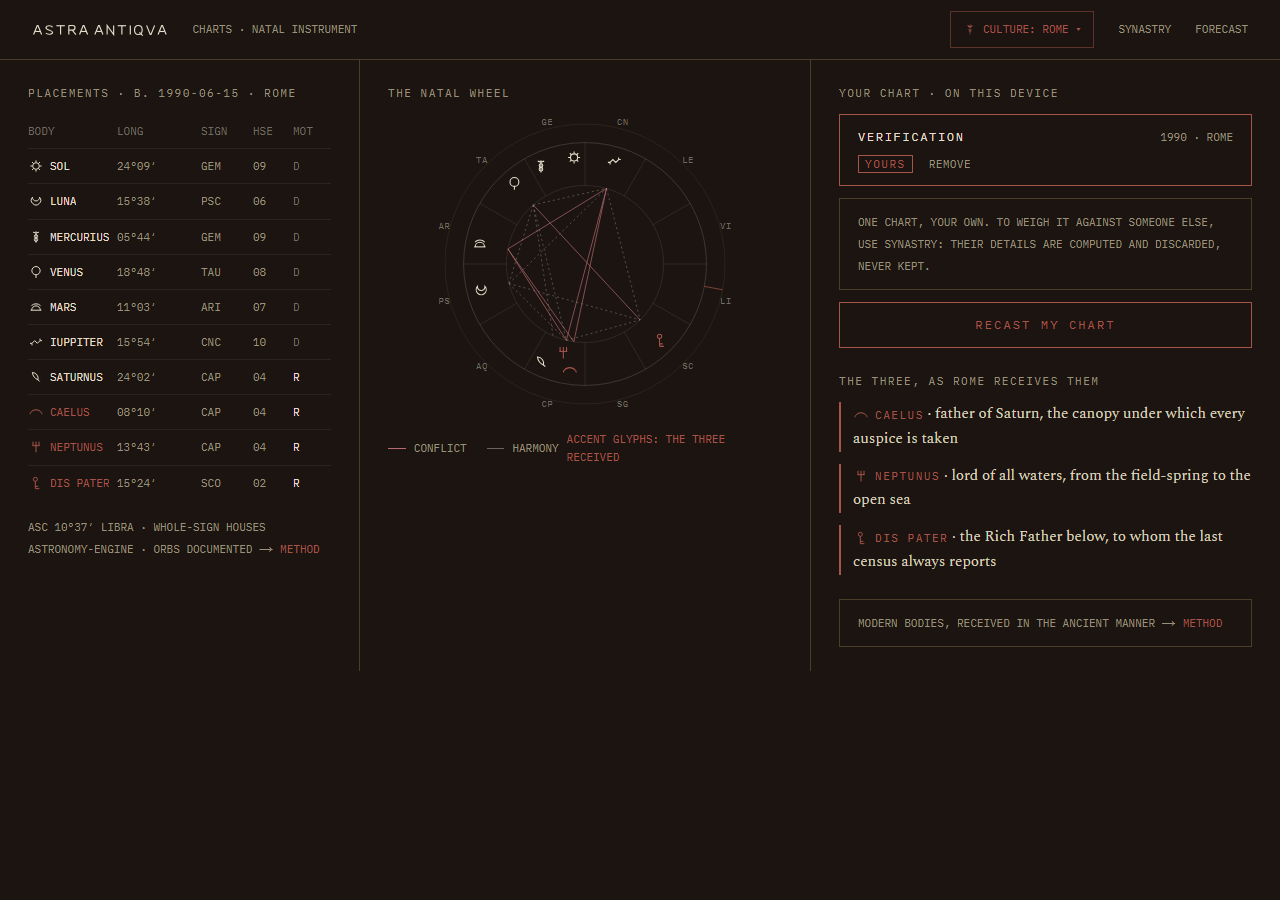
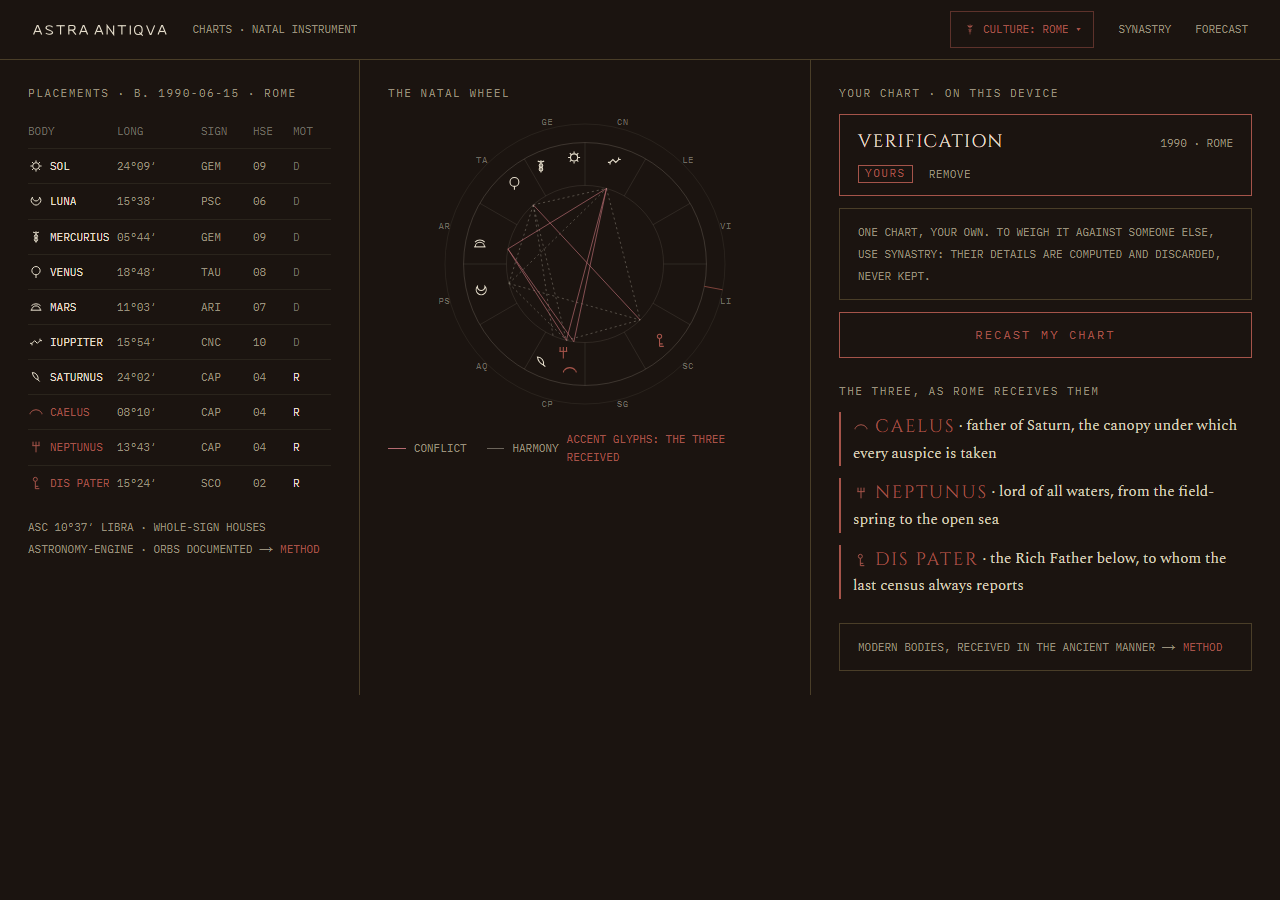
fix(design): names and row titles stay on the display scale
Five names and row titles return to Cinzel at display-xs: the deity name
in each placement row and the saved chart's name on /charts, the transit
row title on /forecast, the span headline on /year, and the aspect kind on
a voice page. Android already sets these on titleMedium. Dates and
sub-labels stay mono.

Mono rows whose strings are uppercase in code drop the redundant
`uppercase` class. The transit teaser's quiet line is written in capitals
so all three teaser states read the same. SectionDivider keeps `uppercase`,
since some callers pass mixed-case labels.

Changed region(s): [[0.6562, 0.1244, 0.9688, 0.6533], [0.6562, 0.6844, 0.9688, 0.7467], [0.9062, 0.1244, 0.9688, 0.1867]]

diff --git a/docs/design/system/components/previews/Lintel.html b/docs/design/system/components/previews/Lintel.html
@@ -1,2 +1,2 @@
 <!-- @dsCard group="Components" viewport="700x140" name="Lintel" subtitle="The nave header: TODAY · VOICES · LEARN on the left, ASTRA ANTIQVA centered, CHARTS · ACCOUNT on the right; collapses to an INDEX disclosure below 720px." -->
-<!doctype html><html lang="en"><head><meta charset="utf-8"><link rel="stylesheet" href="./specimen.css"></head><body data-pantheon="carthage" class="flex min-h-screen flex-col text-bone"><div class="p-6"><header class="relative grid grid-cols-[1fr_auto_1fr] items-center border-b border-rule px-5 py-5 md:px-14"><nav class="hidden items-center gap-[var(--space-4)] font-mono text-data-s uppercase tracking-microcopy min-[720px]:flex"><a href="/" aria-current="page" class="text-accent">TODAY</a><a href="/voices" class="text-bone/60 hover:text-bone">VOICES</a><a href="/learn" class="text-bone/60 hover:text-bone">LEARN</a></nav><a href="/" class="justify-self-center whitespace-nowrap px-4 text-center font-display text-[17px] font-medium tracking-[0.3em] text-bone md:px-10"><svg viewBox="-10 -10 1424 132" width="165.723" height="15.362" aria-hidden="true" focusable="false" style="width:165.723px;height:15.362px;display:inline-block;vertical-align:middle"><g fill="none" stroke="currentColor" stroke-width="12" stroke-linejoin="miter"><g transform="translate(0 0)"><path d="M6 100 L44 6 H52 L90 100"></path><path d="M22 68 H74"></path></g><g transform="translate(120 0)"><path d="M84 24 C76 4 22 0 16 28 C10 56 82 54 84 76 C86 100 30 104 14 84"></path></g><g transform="translate(240 0)"><path d="M4 8 H92"></path><path d="M48 8 V100"></path></g><g transform="translate(360 0)"><path d="M14 100 V6"></path><path d="M14 6 H56 C86 6 86 54 56 54 H14"></path><path d="M50 54 L88 100"></path></g><g transform="translate(480 0)"><path d="M6 100 L44 6 H52 L90 100"></path><path d="M22 68 H74"></path></g><g transform="translate(640 0)"><path d="M6 100 L44 6 H52 L90 100"></path><path d="M22 68 H74"></path></g><g transform="translate(760 0)"><path d="M14 100 V6 L82 100 V6"></path></g><g transform="translate(880 0)"><path d="M4 8 H92"></path><path d="M48 8 V100"></path></g><g transform="translate(968 0)"><path d="M48 6 V100"></path></g><g transform="translate(1052 0)"><path d="M48 6 C80 6 88 30 88 53 C88 76 80 100 48 100 C16 100 8 76 8 53 C8 30 16 6 48 6 Z"></path><path d="M58 78 L94 112"></path></g><g transform="translate(1180 0)"><path d="M6 4 L44 98 H52 L90 4"></path></g><g transform="translate(1300 0)"><path d="M6 100 L44 6 H52 L90 100"></path><path d="M22 68 H74"></path></g></g></svg><span class="sr-only normal-case">ASTRA ANTIQVA</span></a><div class="flex items-center justify-end"><nav class="hidden items-center gap-[var(--space-4)] font-mono text-data-s uppercase tracking-microcopy min-[720px]:flex"><a href="/charts" class="text-bone/60 hover:text-bone">CHARTS</a><a href="/account" class="text-bone/60 hover:text-bone">ACCOUNT</a></nav><div class="relative min-[720px]:hidden"><button type="button" aria-expanded="false" aria-controls="lintel-index-panel" aria-label="Open index" class="font-mono text-data-s uppercase tracking-microcopy text-bone/60 hover:text-bone">INDEX ▾</button></div></div></header></div></body></html>
+<!doctype html><html lang="en"><head><meta charset="utf-8"><link rel="stylesheet" href="./specimen.css"></head><body data-pantheon="carthage" class="flex min-h-screen flex-col text-bone"><div class="p-6"><header class="relative grid grid-cols-[1fr_auto_1fr] items-center border-b border-rule px-5 py-5 md:px-14"><nav class="hidden items-center gap-[var(--space-4)] font-mono text-data-s tracking-microcopy min-[720px]:flex"><a href="/" aria-current="page" class="text-accent">TODAY</a><a href="/voices" class="text-bone/60 hover:text-bone">VOICES</a><a href="/learn" class="text-bone/60 hover:text-bone">LEARN</a></nav><a href="/" class="justify-self-center whitespace-nowrap px-4 text-center font-display text-[17px] font-medium tracking-[0.3em] text-bone md:px-10"><svg viewBox="-10 -10 1424 132" width="165.723" height="15.362" aria-hidden="true" focusable="false" style="width:165.723px;height:15.362px;display:inline-block;vertical-align:middle"><g fill="none" stroke="currentColor" stroke-width="12" stroke-linejoin="miter"><g transform="translate(0 0)"><path d="M6 100 L44 6 H52 L90 100"></path><path d="M22 68 H74"></path></g><g transform="translate(120 0)"><path d="M84 24 C76 4 22 0 16 28 C10 56 82 54 84 76 C86 100 30 104 14 84"></path></g><g transform="translate(240 0)"><path d="M4 8 H92"></path><path d="M48 8 V100"></path></g><g transform="translate(360 0)"><path d="M14 100 V6"></path><path d="M14 6 H56 C86 6 86 54 56 54 H14"></path><path d="M50 54 L88 100"></path></g><g transform="translate(480 0)"><path d="M6 100 L44 6 H52 L90 100"></path><path d="M22 68 H74"></path></g><g transform="translate(640 0)"><path d="M6 100 L44 6 H52 L90 100"></path><path d="M22 68 H74"></path></g><g transform="translate(760 0)"><path d="M14 100 V6 L82 100 V6"></path></g><g transform="translate(880 0)"><path d="M4 8 H92"></path><path d="M48 8 V100"></path></g><g transform="translate(968 0)"><path d="M48 6 V100"></path></g><g transform="translate(1052 0)"><path d="M48 6 C80 6 88 30 88 53 C88 76 80 100 48 100 C16 100 8 76 8 53 C8 30 16 6 48 6 Z"></path><path d="M58 78 L94 112"></path></g><g transform="translate(1180 0)"><path d="M6 4 L44 98 H52 L90 4"></path></g><g transform="translate(1300 0)"><path d="M6 100 L44 6 H52 L90 100"></path><path d="M22 68 H74"></path></g></g></svg><span class="sr-only normal-case">ASTRA ANTIQVA</span></a><div class="flex items-center justify-end"><nav class="hidden items-center gap-[var(--space-4)] font-mono text-data-s tracking-microcopy min-[720px]:flex"><a href="/charts" class="text-bone/60 hover:text-bone">CHARTS</a><a href="/account" class="text-bone/60 hover:text-bone">ACCOUNT</a></nav><div class="relative min-[720px]:hidden"><button type="button" aria-expanded="false" aria-controls="lintel-index-panel" aria-label="Open index" class="font-mono text-data-s tracking-microcopy text-bone/60 hover:text-bone">INDEX ▾</button></div></div></header></div></body></html>

diff --git a/docs/design/system/components/previews/CenterDecree.html b/docs/design/system/components/previews/CenterDecree.html
@@ -1,3 +1,3 @@
 <!-- @dsCard group="Components" viewport="700x360" name="CenterDecree" subtitle="The day's reading: institution kicker, the headline to the reader, the evidence line in mono, one five-sentence paragraph, the votive, the feedback row, the three horizon links (week, season, year), and the come-back line. (Card)" -->
 <!doctype html><html lang="en"><head><meta charset="utf-8"><link rel="stylesheet" href="./specimen.css"></head><body data-pantheon="rome" class="flex min-h-screen flex-col text-bone"><div class="p-6"><main id="day-figure" class="flex flex-col items-center px-6 py-11 text-center md:px-14 md:py-[var(--space-6)]"><div class="text-center"><div class="font-mono text-data-xs tracking-microcopy text-dim">TUESDAY · SEPTEMBER 29, 2026 · THE AUSPICES OF THE DAY</div><div class="mx-auto my-6 h-px w-16 bg-accent"></div><h1 class="mx-auto max-w-[680px] text-balance font-display text-display-l leading-display tracking-display text-bone md:text-display-xl">Walk into the forum as if you own it.</h1><div class="mt-4"><div class="font-mono text-data-xs tracking-data text-dim">SOL △ CAELUS · 0°19′</div></div><div class="mx-auto my-6 h-px w-16 bg-accent"></div></div><div class="mx-auto max-w-[560px] text-left"><p class="font-body text-prose-m font-light leading-prose text-prose text-pretty [&amp;:not(:last-child)]:mb-[var(--space-3)]">Your public standing and your sudden orders sit on the same side of the Senate, exact to the augur&#x27;s line. Your motion passes, and Caelus votes for it. The Vestals feed the hearth in Sol&#x27;s name, and the flame burns clear. Elsewhere in the sky, Luna raises the spear against Dis Pater: your household affairs and your inheritance block each other&#x27;s road. Push your public standing forward today, and hang a garland for Sol on the way.</p></div><div class="mt-[var(--space-5)] w-full max-w-[560px]"><div class="mx-auto max-w-[560px] whitespace-pre-line border-y border-rule py-4 text-center font-display text-display-xs leading-[1.6] tracking-[0.14em] text-accent">ASK THE FAVOR OWED YOU;
-THE AUSPICES ARE TAKEN ON THE RIGHT</div></div><div class="mt-4"><div class="font-mono text-data-xs tracking-label text-dim">AGAINST THIS DECREE → <button type="button" class="border-b pb-[2px] border-bone/40 text-bone">IT WAS SO</button> · <button type="button" class="border-b pb-[2px] border-bone/40 text-bone">IT WAS NOT SO</button> <span class="text-faint-ink">· KEPT ON THIS DEVICE</span></div></div><div class="mt-10 flex flex-wrap justify-center gap-x-[var(--space-2)] gap-y-[var(--space-2)] font-mono text-data-xs uppercase tracking-microcopy text-dim sm:gap-x-[var(--space-4)] [&amp;&gt;a]:whitespace-nowrap"><a href="/week" class="hover:text-bone">THE WEEK →</a><a href="/season" class="hover:text-bone">THE SEASON →</a><a href="/year" class="hover:text-bone">THE YEAR →</a></div></main></div></body></html>
+THE AUSPICES ARE TAKEN ON THE RIGHT</div></div><div class="mt-4"><div class="font-mono text-data-xs tracking-label text-dim">AGAINST THIS DECREE → <button type="button" class="border-b pb-[2px] border-bone/40 text-bone">IT WAS SO</button> · <button type="button" class="border-b pb-[2px] border-bone/40 text-bone">IT WAS NOT SO</button> <span class="text-faint-ink">· KEPT ON THIS DEVICE</span></div></div><div class="mt-10 flex flex-wrap justify-center gap-x-[var(--space-2)] gap-y-[var(--space-2)] font-mono text-data-xs tracking-microcopy text-dim sm:gap-x-[var(--space-4)] [&amp;&gt;a]:whitespace-nowrap"><a href="/week" class="hover:text-bone">THE WEEK →</a><a href="/season" class="hover:text-bone">THE SEASON →</a><a href="/year" class="hover:text-bone">THE YEAR →</a></div></main></div></body></html>

diff --git a/docs/design/system/components/previews/PermissionsModule.html b/docs/design/system/components/previews/PermissionsModule.html
@@ -1,2 +1,2 @@
 <!-- @dsCard group="Components" viewport="700x300" name="PermissionsModule" subtitle="The day's permissions in the culture's own pair (PROCEED/REFRAIN, OFFER/WITHHOLD, ASK/DO NOT ASK, BRING/HOLD BACK, PAY/DEFER): two columns derived from today's aspects. Rendered for every reader, seeded from the sky figures when no chart is saved. (Card)" -->
-<!doctype html><html lang="en"><head><meta charset="utf-8"><link rel="stylesheet" href="./specimen.css"></head><body data-pantheon="rome" class="flex min-h-screen flex-col text-bone"><div class="p-6"><section class="mx-auto max-w-[720px] px-5 py-10 md:px-14"><div class="flex items-baseline justify-between"><span class="font-mono text-data-xs tracking-label text-accent">ROME · THE DAY’S PERMISSIONS</span><span class="font-mono text-data-xs text-dim">TRIAL</span></div><div class="my-4 h-px w-[34px] bg-accent"></div><div class="grid grid-cols-1 gap-6 md:grid-cols-2 md:gap-[var(--space-4)]"><div><div class="mb-[var(--space-2)] font-mono text-data-xs uppercase tracking-microcopy text-harmony">PROCEED</div><div class="flex flex-col gap-[var(--space-1)] font-body text-prose-s font-light leading-prose text-prose"><span>Settle a debt owed since spring</span><span>Repair what is already standing</span><span>Speak plainly to the one above you</span></div></div><div><div class="mb-[var(--space-2)] font-mono text-data-xs uppercase tracking-microcopy text-conflict">REFRAIN</div><div class="flex flex-col gap-[var(--space-1)] font-body text-prose-s font-light leading-prose text-prose"><span>Signing what you have not read twice</span><span>Opening a quarrel with a neighbour</span><span>Beginning the journey before dusk</span></div></div></div><div class="mt-4 font-mono text-data-xs leading-data tracking-data text-dim">DERIVED FROM TODAY’S ASPECTS, NOT A RANDOMIZER → <a href="#day-figure" class="text-accent">WHY THESE</a></div></section></div></body></html>
+<!doctype html><html lang="en"><head><meta charset="utf-8"><link rel="stylesheet" href="./specimen.css"></head><body data-pantheon="rome" class="flex min-h-screen flex-col text-bone"><div class="p-6"><section class="mx-auto max-w-[720px] px-5 py-10 md:px-14"><div class="flex items-baseline justify-between"><span class="font-mono text-data-xs tracking-label text-accent">ROME · THE DAY’S PERMISSIONS</span><span class="font-mono text-data-xs text-dim">TRIAL</span></div><div class="my-4 h-px w-[34px] bg-accent"></div><div class="grid grid-cols-1 gap-6 md:grid-cols-2 md:gap-[var(--space-4)]"><div><div class="mb-[var(--space-2)] font-mono text-data-xs tracking-microcopy text-harmony">PROCEED</div><div class="flex flex-col gap-[var(--space-1)] font-body text-prose-s font-light leading-prose text-prose"><span>Settle a debt owed since spring</span><span>Repair what is already standing</span><span>Speak plainly to the one above you</span></div></div><div><div class="mb-[var(--space-2)] font-mono text-data-xs tracking-microcopy text-conflict">REFRAIN</div><div class="flex flex-col gap-[var(--space-1)] font-body text-prose-s font-light leading-prose text-prose"><span>Signing what you have not read twice</span><span>Opening a quarrel with a neighbour</span><span>Beginning the journey before dusk</span></div></div></div><div class="mt-4 font-mono text-data-xs leading-data tracking-data text-dim">DERIVED FROM TODAY’S ASPECTS, NOT A RANDOMIZER → <a href="#day-figure" class="text-accent">WHY THESE</a></div></section></div></body></html>

diff --git a/docs/design/system/components/previews/TransitEmptyState.html b/docs/design/system/components/previews/TransitEmptyState.html
@@ -1,2 +1,2 @@
 <!-- @dsCard group="Components" viewport="700x220" name="TransitEmptyState" subtitle="Empty state for the long-transit surfaces when no chart is saved or the span id is unknown: kicker, accent rule, Cinzel headline, one sentence, bordered CTA to cast a chart, mono anonymity note. (Card)" -->
-<!doctype html><html lang="en"><head><meta charset="utf-8"><link rel="stylesheet" href="./specimen.css"></head><body data-pantheon="carthage" class="flex min-h-screen flex-col text-bone"><div class="p-6"><div class="mx-auto max-w-[400px] py-10 text-center"><div class="font-mono text-data-xs tracking-microcopy text-dim">THE LONG TRANSITS</div><div class="mx-auto my-5 h-px w-11 bg-accent"></div><div class="text-balance font-display text-display-s leading-display tracking-display text-bone">THE LONG TRANSITS ARE READ AGAINST A CHART</div><p class="mx-auto mt-3.5 max-w-[360px] font-body text-prose-s leading-prose text-prose">A long transit is scored against your own sky, the chart cast once at the hour of your birth and kept.</p><a href="/reading" class="inline-flex items-center justify-center gap-[var(--space-1)] px-[var(--space-4)] py-[var(--space-2)] text-center font-mono text-data-s uppercase tracking-microcopy disabled:cursor-not-allowed disabled:opacity-50 border border-rule-active text-accent hover:bg-bone/5 mt-[var(--space-4)]">CAST THE FIRST CHART</a><div class="mt-3.5 font-mono text-data-xs tracking-data text-dim">KEPT ON THIS DEVICE · AN ACCOUNT ADDS SYNC</div><div class="mt-5"><a href="/transits" class="font-mono text-data-xs uppercase tracking-microcopy text-accent">SEE ALL LONG TRANSITS →</a></div></div></div></body></html>
+<!doctype html><html lang="en"><head><meta charset="utf-8"><link rel="stylesheet" href="./specimen.css"></head><body data-pantheon="carthage" class="flex min-h-screen flex-col text-bone"><div class="p-6"><div class="mx-auto max-w-[400px] py-10 text-center"><div class="font-mono text-data-xs tracking-microcopy text-dim">THE LONG TRANSITS</div><div class="mx-auto my-5 h-px w-11 bg-accent"></div><div class="text-balance font-display text-display-s leading-display tracking-display text-bone">THE LONG TRANSITS ARE READ AGAINST A CHART</div><p class="mx-auto mt-3.5 max-w-[360px] font-body text-prose-s leading-prose text-prose">A long transit is scored against your own sky, the chart cast once at the hour of your birth and kept.</p><a href="/reading" class="inline-flex items-center justify-center gap-[var(--space-1)] px-[var(--space-4)] py-[var(--space-2)] text-center font-mono text-data-s uppercase tracking-microcopy disabled:cursor-not-allowed disabled:opacity-50 border border-rule-active text-accent hover:bg-bone/5 mt-[var(--space-4)]">CAST THE FIRST CHART</a><div class="mt-3.5 font-mono text-data-xs tracking-data text-dim">KEPT ON THIS DEVICE · AN ACCOUNT ADDS SYNC</div><div class="mt-5"><a href="/transits" class="font-mono text-data-xs tracking-microcopy text-accent">SEE ALL LONG TRANSITS →</a></div></div></div></body></html>

diff --git a/docs/design/system/components/previews/TransitTeaser.html b/docs/design/system/components/previews/TransitTeaser.html
@@ -1,2 +1,2 @@
 <!-- @dsCard group="Components" viewport="700x220" name="TransitTeaser" subtitle="Mobile-only compact long-transit link: one bordered line naming the active span and its end date, the 'no slow body in reach' state, or the CAST THE FIRST CHART call to action. (Button)" -->
-<!doctype html><html lang="en"><head><meta charset="utf-8"><link rel="stylesheet" href="./specimen.css"></head><body data-pantheon="rome" class="flex min-h-screen flex-col text-bone"><div class="p-6"><a href="/transits/saturn-square-mars" class="mt-[var(--space-2)] block border border-[var(--accent-strong-border)] px-4 py-[var(--space-2)] text-center"><span class="mb-[var(--space-1)] block font-mono text-data-xs tracking-label text-accent">THE LONG TRANSIT</span><span class="font-mono text-data-xs uppercase tracking-data text-bone">SATURNUS IN THE WATER-BEARER · THROUGH 03 FEB 2027 →</span></a></div></body></html>
+<!doctype html><html lang="en"><head><meta charset="utf-8"><link rel="stylesheet" href="./specimen.css"></head><body data-pantheon="rome" class="flex min-h-screen flex-col text-bone"><div class="p-6"><a href="/transits/saturn-square-mars" class="mt-[var(--space-2)] block border border-[var(--accent-strong-border)] px-4 py-[var(--space-2)] text-center"><span class="mb-[var(--space-1)] block font-mono text-data-xs tracking-label text-accent">THE LONG TRANSIT</span><span class="font-mono text-data-xs tracking-data text-bone">SATURNUS IN THE WATER-BEARER · THROUGH 03 FEB 2027 →</span></a></div></body></html>

diff --git a/web/src/components/home/TransitTeaser.tsx b/web/src/components/home/TransitTeaser.tsx
@@ -16,21 +16,21 @@ export function TransitTeaser({ className, data }: TransitTeaserProps) {
         <span className="mb-[var(--space-1)] block font-mono text-data-xs tracking-label text-accent">
           THE LONG TRANSIT
         </span>
-        <span className="font-mono text-data-xs uppercase tracking-data text-bone">
+        <span className="font-mono text-data-xs tracking-data text-bone">
           CAST THE FIRST CHART TO READ ONE&nbsp;→
         </span>
       </>
     ) : data.status === "none" || !data.title1 ? (
       <>
         <span className="mb-[var(--space-1)] block font-mono text-data-xs tracking-label text-dim">THE LONG TRANSIT</span>
-        <span className="font-mono text-data-xs uppercase tracking-data text-bone">No slow body in reach right now</span>
+        <span className="font-mono text-data-xs tracking-data text-bone">NO SLOW BODY IN REACH RIGHT NOW</span>
       </>
     ) : (
       <>
         <span className="mb-[var(--space-1)] block font-mono text-data-xs tracking-label text-accent">
           THE LONG TRANSIT
         </span>
-        <span className="font-mono text-data-xs uppercase tracking-data text-bone">
+        <span className="font-mono text-data-xs tracking-data text-bone">
           {data.title1} · THROUGH {data.rangeLabel?.split(" → ")[1] ?? ""}&nbsp;→
         </span>
       </>

diff --git a/web/src/components/home/PermissionsModule.tsx b/web/src/components/home/PermissionsModule.tsx
@@ -30,7 +30,7 @@ export function PermissionsModule({ culture, permissions, source = "sky", tone }
       <div className="my-4 h-px w-[34px] bg-accent" />
       <div className="grid grid-cols-1 gap-6 md:grid-cols-2 md:gap-[var(--space-4)]">
         <div>
-          <div className="mb-[var(--space-2)] font-mono text-data-xs uppercase tracking-microcopy text-harmony">{proceedLabel}</div>
+          <div className="mb-[var(--space-2)] font-mono text-data-xs tracking-microcopy text-harmony">{proceedLabel}</div>
           <div className="flex flex-col gap-[var(--space-1)] font-body text-prose-s font-light leading-prose text-prose">
             {permissions.proceed.map((item) => (
               <span key={item}>{item}</span>
@@ -38,7 +38,7 @@ export function PermissionsModule({ culture, permissions, source = "sky", tone }
           </div>
         </div>
         <div>
-          <div className="mb-[var(--space-2)] font-mono text-data-xs uppercase tracking-microcopy text-conflict">{refrainLabel}</div>
+          <div className="mb-[var(--space-2)] font-mono text-data-xs tracking-microcopy text-conflict">{refrainLabel}</div>
           <div className="flex flex-col gap-[var(--space-1)] font-body text-prose-s font-light leading-prose text-prose">
             {permissions.refrain.map((item) => (
               <span key={item}>{item}</span>

diff --git a/web/src/components/charts/ChartsInstrument.tsx b/web/src/components/charts/ChartsInstrument.tsx
@@ -189,7 +189,7 @@ function ChartsInstrumentInner() {
         </div>
         <div className="mt-3 border border-rule-active px-[var(--space-3)] py-[var(--space-2)]">
           <div className="flex items-baseline justify-between gap-3">
-            <span className="font-mono text-data-s uppercase tracking-label text-bone">
+            <span className="font-display text-display-xs tracking-[0.08em] text-bone">
               {chart.name.toUpperCase()}
             </span>
             <span className="font-mono text-data-xs text-dim">
@@ -241,7 +241,7 @@ function ChartsInstrumentInner() {
                 key={planet}
                 className="border-l-2 border-rule-active pl-3 font-body text-prose-s leading-prose text-prose"
               >
-                <span className="inline-flex items-center gap-[var(--space-1)] align-middle font-mono text-data-xs uppercase tracking-label text-accent">
+                <span className="inline-flex items-center gap-[var(--space-1)] align-middle font-display text-display-xs tracking-[0.1em] text-accent">
                   <DeityGlyph body={planet} culture={culture} size={16} decorative />
                   {deity.name.toUpperCase()}
                 </span>{" "}

diff --git a/web/src/components/chrome/Lintel.tsx b/web/src/components/chrome/Lintel.tsx
@@ -47,7 +47,7 @@ function navLink(item: NavItem, active: LintelSection | undefined) {
 export function Lintel({ active }: LintelProps) {
   return (
     <header className="relative grid grid-cols-[1fr_auto_1fr] items-center border-b border-rule px-5 py-5 md:px-14">
-      <nav className="hidden items-center gap-[var(--space-4)] font-mono text-data-s uppercase tracking-microcopy min-[720px]:flex">
+      <nav className="hidden items-center gap-[var(--space-4)] font-mono text-data-s tracking-microcopy min-[720px]:flex">
         {LEFT_NAV.map((item) => navLink(item, active))}
       </nav>
       <Link
@@ -57,7 +57,7 @@ export function Lintel({ active }: LintelProps) {
         <Wordmark capHeight={11.9} />
       </Link>
       <div className="flex items-center justify-end">
-        <nav className="hidden items-center gap-[var(--space-4)] font-mono text-data-s uppercase tracking-microcopy min-[720px]:flex">
+        <nav className="hidden items-center gap-[var(--space-4)] font-mono text-data-s tracking-microcopy min-[720px]:flex">
           {RIGHT_NAV.map((item) => navLink(item, active))}
         </nav>
         <LintelIndexMenu active={active} className="min-[720px]:hidden" />

diff --git a/web/src/components/horizons/YearNave.tsx b/web/src/components/horizons/YearNave.tsx
@@ -166,7 +166,7 @@ function YearContent({ now, natal }: { now: Date | null; natal: SavedNatal | nul
                     href={`/transits/${span.id}`}
                     className="flex items-baseline justify-between gap-3 text-prose no-underline hover:text-bone"
                   >
-                    <span className="font-mono text-data-s uppercase tracking-label">
+                    <span className="font-display text-display-xs tracking-[0.08em]">
                       {spanHeadline(culture, span)}
                     </span>
                     <span className="whitespace-nowrap font-mono text-data-xs text-dim">
@@ -219,7 +219,7 @@ function YearContent({ now, natal }: { now: Date | null; natal: SavedNatal | nul
         <FeedbackRow readingId={yearReadingId(now)} noun="YEAR" />
       </div>
 
-      <div className="mt-9 flex flex-wrap items-center justify-center gap-8 font-mono text-data-xs uppercase tracking-microcopy">
+      <div className="mt-9 flex flex-wrap items-center justify-center gap-8 font-mono text-data-xs tracking-microcopy">
         <Link href="/season" className="text-bone/65 hover:text-bone">
           ← THE SEASON
         </Link>

diff --git a/web/src/components/chrome/LintelIndexMenu.tsx b/web/src/components/chrome/LintelIndexMenu.tsx
@@ -58,7 +58,7 @@ export function LintelIndexMenu({
         aria-expanded={open}
         aria-controls="lintel-index-panel"
         aria-label={open ? "Close index" : "Open index"}
-        className="font-mono text-data-s uppercase tracking-microcopy text-bone/60 hover:text-bone"
+        className="font-mono text-data-s tracking-microcopy text-bone/60 hover:text-bone"
       >
         INDEX {open ? "▴" : "▾"}
       </button>
@@ -77,7 +77,7 @@ export function LintelIndexMenu({
                   onClick={() => setOpen(false)}
                   aria-current={isActive ? "page" : undefined}
                   className={cn(
-                    "border-b border-rule-row py-3 font-mono text-data-s uppercase tracking-microcopy last:border-b-0",
+                    "border-b border-rule-row py-3 font-mono text-data-s tracking-microcopy last:border-b-0",
                     isActive ? "text-accent" : "text-bone/80 hover:text-bone",
                   )}
                 >

diff --git a/web/src/components/charts/PlacementReading.tsx b/web/src/components/charts/PlacementReading.tsx
@@ -171,7 +171,7 @@ function PlacementReadingInner({ chartId, body }: PlacementReadingProps) {
           <FeedbackRow readingId={`placement-${chartId}-${body}`} noun="PLACEMENT" />
         </div>
 
-        <div className="mt-7 flex flex-wrap justify-center gap-x-[var(--space-4)] gap-y-[var(--space-2)] font-mono text-data-xs uppercase tracking-microcopy [&>a]:whitespace-nowrap">
+        <div className="mt-7 flex flex-wrap justify-center gap-x-[var(--space-4)] gap-y-[var(--space-2)] font-mono text-data-xs tracking-microcopy [&>a]:whitespace-nowrap">
           <Link href={`/charts/${chartId}/${prevPlanet}`} className="text-bone/65 hover:text-bone">
             ← YOUR {prevDeity.name.toUpperCase()}
           </Link>
